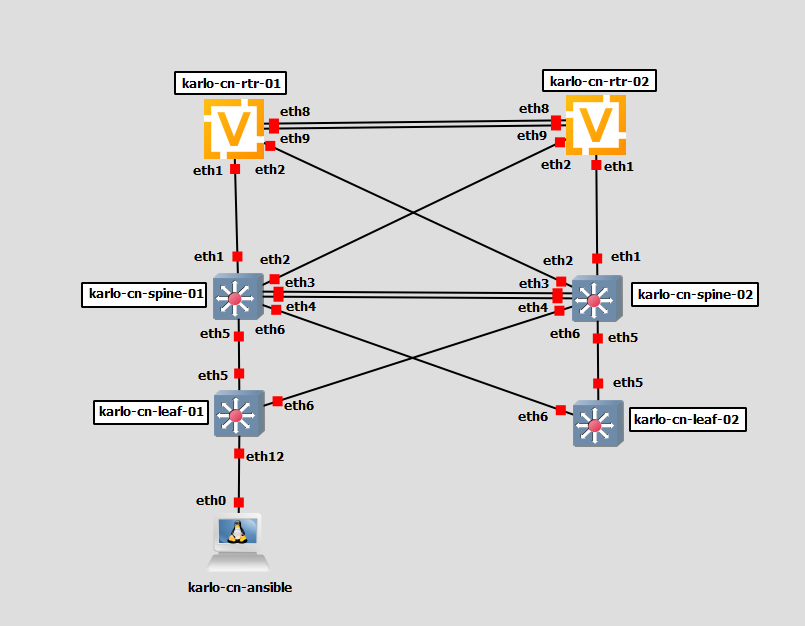
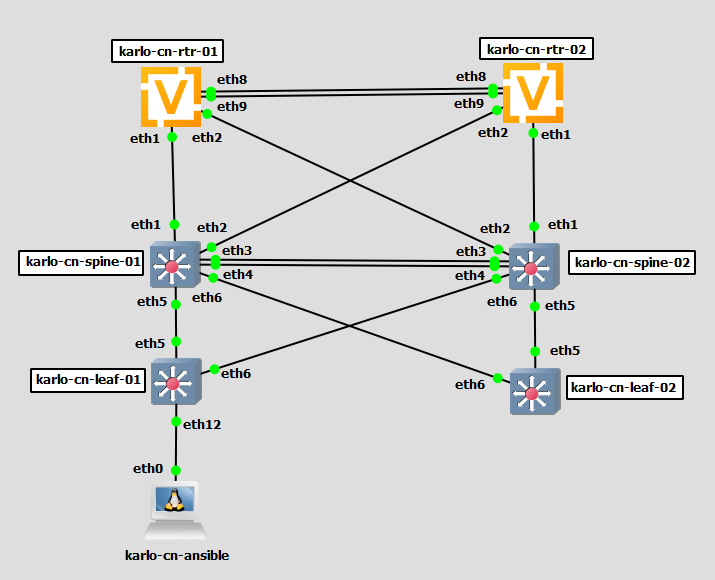
Updated Physical Topology section with latest

Changed region(s): [[0.0, 0.0621, 0.9846, 0.9931], [0.4, 0.3414, 0.4615, 0.4034], [0.5538, 0.5897, 0.6154, 0.6207]]

diff --git a/02_north_star_deployment/network_devices/arista_veos/veos_guide_readme.md b/02_north_star_deployment/network_devices/arista_veos/veos_guide_readme.md
@@ -16,7 +16,7 @@ Resources (Per Node):
 
 ## 2. Physical Topology
 
-![Physical Topology](Assets/Images/physical_topology.png)
+![Physical Topology](../../../Assets/Images/physical_topology.png)
 
 ### Interface Mapping
 
